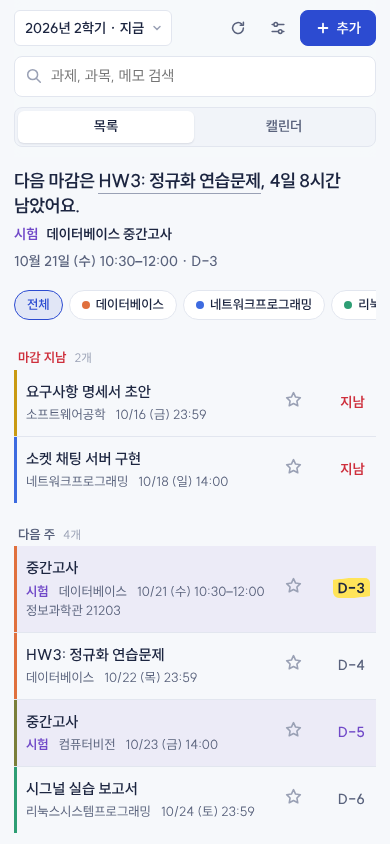
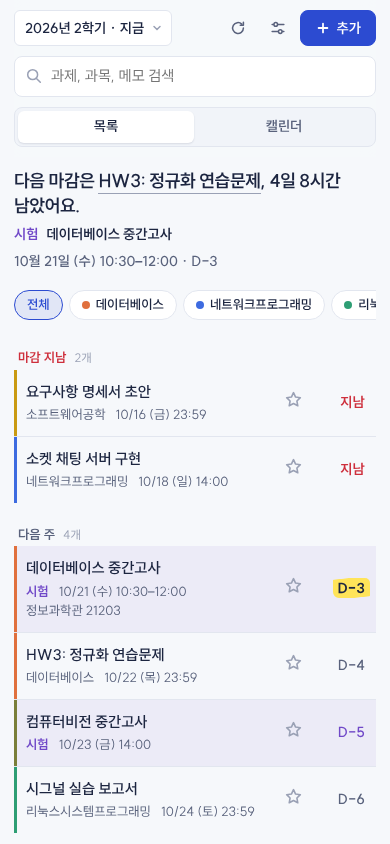
feat: 서비스 이름 S-DAY, 시험 제목에 과목명
- 앱 이름·매니페스트·알림 기본 제목·캘린더 이름을 S-DAY로
- 시험은 제목에 과목명이 없으면 '컴퓨터비전 중간고사'처럼 앞에 붙여 보여 줌 (목록, 캘린더, 상단 줄, 푸시)
- 서비스 워커 캐시 v14

Claude-Session: https://claude.ai/code/session_01VYtpNtxSMGWfGLeovZEFXd

Changed region(s): [[0.0615, 0.6469, 0.6769, 0.7085], [0.0615, 0.8318, 0.4615, 0.8934], [0.4923, 0.8626, 0.5538, 0.8934]]

diff --git a/index.html b/index.html
@@ -3,7 +3,7 @@
 <head>
 <meta charset="UTF-8">
 <meta name="viewport" content="width=device-width, initial-scale=1, viewport-fit=cover">
-<title>과제 D-day</title>
+<title>S-DAY</title>
 <meta name="description" content="스마트캠퍼스 과제를 마감 순으로 모아 보는 과제 플래너">
 <meta name="theme-color" content="#F6F8FB" media="(prefers-color-scheme: light)">
 <meta name="theme-color" content="#10141F" media="(prefers-color-scheme: dark)">
@@ -11,7 +11,7 @@
 <link rel="icon" href="assets/icons/icon.svg" type="image/svg+xml">
 <link rel="apple-touch-icon" href="assets/icons/icon-180.png">
 <meta name="mobile-web-app-capable" content="yes">
-<meta name="apple-mobile-web-app-title" content="과제 D-day">
+<meta name="apple-mobile-web-app-title" content="S-DAY">
 <meta name="apple-mobile-web-app-status-bar-style" content="default">
 <link rel="preconnect" href="https://cdn.jsdelivr.net" crossorigin>
 <link rel="stylesheet" href="https://cdn.jsdelivr.net/gh/sun-typeface/SUIT@2/fonts/variable/woff2/SUIT-Variable.css">
@@ -29,7 +29,7 @@
 <!-- 연결 화면 -->
 <main class="connect" id="viewConnect" hidden>
   <div class="connect-sheet">
-    <h1 class="connect-title">과제 D-day</h1>
+    <h1 class="connect-title">S-DAY</h1>
     <p class="connect-lead">스마트캠퍼스 과제와 직접 적은 과제를 마감 순으로 한곳에 모아 봐요. 보드 코드 하나로 PC, 폰, 노션 어디서든 같은 보드가 열려요.</p>
 
     <section class="connect-block">
@@ -192,7 +192,7 @@
             <summary>토큰 만드는 법</summary>
             <ol class="help steps" id="tokenSteps">
               <li><a href="https://canvas.ssu.ac.kr/profile/settings" target="_blank" rel="noopener">스마트캠퍼스 설정</a>에서 <b>+ 새 액세스 토큰</b></li>
-              <li>목적 "D-day 보드", 만료일은 학기 끝나는 날</li>
+              <li>목적 "S-DAY", 만료일은 학기 끝나는 날</li>
               <li>나온 토큰을 복사해 여기에 붙여 넣기</li>
             </ol>
             <p class="help fine">토큰은 서버에 암호화해서 보관하고, 과제와 제출 기록을 읽는 데만 써요.</p>

diff --git a/assets/js/views.js b/assets/js/views.js
@@ -1,7 +1,7 @@
 // 목록 / 캘린더 보기
 
 import {
-  h, dday, fmtDate, fmtShort, fmtDuration, groupOf, GROUPS, subjectColor,
+  h, dday, fmtDate, fmtShort, fmtDuration, displayTitle, groupOf, GROUPS, subjectColor,
   startOfDay, addDays, sameDay, dayKey, WEEK, isExam, examOver, timeRange,
 } from './util.js';
 
@@ -48,7 +48,7 @@ export function taskRow(t, ctx, { compact = false } = {}) {
   }, svg(ICON_STAR));
 
   const title = h('div', { class: 'title' },
-    h('span', { class: 'title-text' }, t.title),
+    h('span', { class: 'title-text' }, displayTitle(t)),
     t.link ? h('a', {
       class: 'lms-link', href: t.link, target: '_blank', rel: 'noopener noreferrer',
       title: '스마트캠퍼스에서 열기', 'aria-label': '스마트캠퍼스에서 열기', onclick: e => e.stopPropagation(),
@@ -57,7 +57,7 @@ export function taskRow(t, ctx, { compact = false } = {}) {
 
   const meta = h('div', { class: 'meta' },
     exam ? h('span', { class: 'exam-word' }, '시험') : null,
-    !compact && t.subject ? h('span', { class: 'subj' }, t.subject) : null,
+    !compact && t.subject && displayTitle(t) === t.title ? h('span', { class: 'subj' }, t.subject) : null,
     exam ? h('span', null, `${fmtShort(due, false)} ${timeRange(t)}`) : h('span', null, fmtShort(due)),
     exam && t.location ? h('span', { class: 'place' }, t.location) : null,
     remain ? h('span', { class: 'remain' }, remain) : null,
@@ -172,7 +172,7 @@ export function renderCalendar(root, tasks, ctx) {
 
     list.slice(0, 3).forEach(t => {
       const lv = dday(t, ctx.now).level;
-      const label = isExam(t) ? `${timeRange(t).split('–')[0]} ${t.title}` : t.title;
+      const label = isExam(t) ? `${timeRange(t).split('–')[0]} ${displayTitle(t)}` : t.title;
       const tip = [t.subject, t.title, isExam(t) ? timeRange(t) : null, t.location].filter(Boolean).join(' · ');
       cell.append(h('span', {
         class: `cal-pill ${lv}${isExam(t) ? ' exam' : ''}`, title: tip,

diff --git a/assets/js/app.js b/assets/js/app.js
@@ -11,7 +11,7 @@ import { errText, api, CALENDAR_FEED_URL } from './api.js';
 import {
   $, $$, h, fmtDate, fmtDuration, fmtClock, subjectColor, setSubjects, startOfDay, addDays,
   startOfWeek, toDateInput, toTimeInput, DAY, isExam, groupOf, timeRange, dday,
-  semesterOf, semesterKey, semesterLabel, parseSemesterKey, semesterRange, taskSemesterKey, fmtSize,
+  semesterOf, semesterKey, semesterLabel, parseSemesterKey, semesterRange, taskSemesterKey, fmtSize, displayTitle,
 } from './util.js';
 import { renderList, renderCalendar, taskRow } from './views.js';
 
@@ -121,7 +121,7 @@ function renderNext() {
     parts.push(h('p', { class: 'next-exam' },
       h('span', { class: 'exam-word' }, '시험'),
       h('button', { type: 'button', onclick: () => openPanel(nextExam) },
-        [nextExam.subject, nextExam.title].filter(Boolean).join(' ')),
+        displayTitle(nextExam)),
       ` ${fmtDate(d, false)} ${timeRange(nextExam)}`,
       ` · ${dday(nextExam, now).label}`));
   }

diff --git a/supabase/functions/calendar-feed/index.ts b/supabase/functions/calendar-feed/index.ts
@@ -32,7 +32,7 @@ function fold(line: string) {
 export function toIcs(tasks: Task[], now = new Date()) {
   const lines = [
     "BEGIN:VCALENDAR", "VERSION:2.0", "PRODID:-//dday-board//KO", "CALSCALE:GREGORIAN", "METHOD:PUBLISH",
-    "X-WR-CALNAME:과제 D-day", "X-WR-TIMEZONE:Asia/Seoul", "REFRESH-INTERVAL;VALUE=DURATION:PT3H",
+    "X-WR-CALNAME:S-DAY", "X-WR-TIMEZONE:Asia/Seoul", "REFRESH-INTERVAL;VALUE=DURATION:PT3H",
   ];
   for (const t of tasks) {
     const exam = t.kind === "exam";
@@ -79,7 +79,7 @@ Deno.serve(async (req) => {
   return new Response(toIcs(data as Task[]), {
     headers: {
       "Content-Type": "text/calendar; charset=utf-8",
-      "Content-Disposition": 'inline; filename="dday-board.ics"',
+      "Content-Disposition": 'inline; filename="s-day.ics"',
       "Cache-Control": "public, max-age=900",
     },
   });

diff --git a/sw.js b/sw.js
@@ -1,7 +1,7 @@
 // 앱 화면 파일만 캐시해서 오프라인에서도 열리게 한다.
 // 과제 데이터(Supabase 호출)는 캐시하지 않는다. 항상 네트워크 우선.
 
-const CACHE = 'dday-shell-v13';
+const CACHE = 'dday-shell-v14';
 const SHELL = [
   './',
   'index.html',
@@ -48,7 +48,7 @@ self.addEventListener('fetch', e => {
 self.addEventListener('push', e => {
   let d = {};
   try { d = e.data ? e.data.json() : {}; } catch { d = { title: e.data && e.data.text() }; }
-  e.waitUntil(self.registration.showNotification(d.title || '과제 D-day', {
+  e.waitUntil(self.registration.showNotification(d.title || 'S-DAY', {
     body: d.body || '',
     tag: d.tag,
     renotify: !!d.tag,

diff --git a/supabase/functions/push-notify/index.ts b/supabase/functions/push-notify/index.ts
@@ -53,8 +53,10 @@ export function message(t: Due, now = new Date()) {
   const exam = t.kind === "exam";
   const head = exam ? `시험 ${left} 전` : `마감 ${left} 전`;
   const where = exam && t.location ? ` · ${t.location}` : "";
+  // 시험은 "중간고사"만으로는 모르니 과목명을 앞에
+  const name = exam && t.subject && !t.title.includes(t.subject) ? `${t.subject} ${t.title}` : t.title;
   return {
-    title: `${head} · ${t.title}`,
+    title: `${head} · ${name}`,
     body: `${t.subject ? `${t.subject} · ` : ""}${day} ${time}${exam ? " 시작" : " 마감"}${where}`,
     tag: `task-${t.taskId}`,
     url: `${APP_URL}#task=${encodeURIComponent(t.taskId)}`,

diff --git a/assets/js/util.js b/assets/js/util.js
@@ -22,6 +22,12 @@ export function fmtDate(d, withTime = true) {
   const base = `${d.getMonth() + 1}월 ${d.getDate()}일 (${WEEK[d.getDay()]})`;
   return withTime ? `${base} ${pad(d.getHours())}:${pad(d.getMinutes())}` : base;
 }
+// 시험은 "중간고사"만으로는 무슨 과목인지 모르니 과목명을 앞에 붙인다
+export function displayTitle(t) {
+  if (t.kind === 'exam' && t.subject && !t.title.includes(t.subject)) return `${t.subject} ${t.title}`;
+  return t.title;
+}
+
 // 목록용 짧은 날짜: 10/20 (화) 23:59
 export function fmtShort(d, withTime = true) {
   const base = `${d.getMonth() + 1}/${d.getDate()} (${WEEK[d.getDay()]})`;

diff --git a/README.md b/README.md
@@ -1,4 +1,4 @@
-# 과제 D-day
+# S-DAY
 
 스마트캠퍼스 과제, 직접 적은 과제, 시험 일정을 마감 순으로 모아 보는 학기 플래너입니다. 단독 웹으로도, 노션 페이지에 임베드해서도 씁니다. 같은 보드 코드를 입력한 기기끼리 과제가 동기화됩니다.
 
